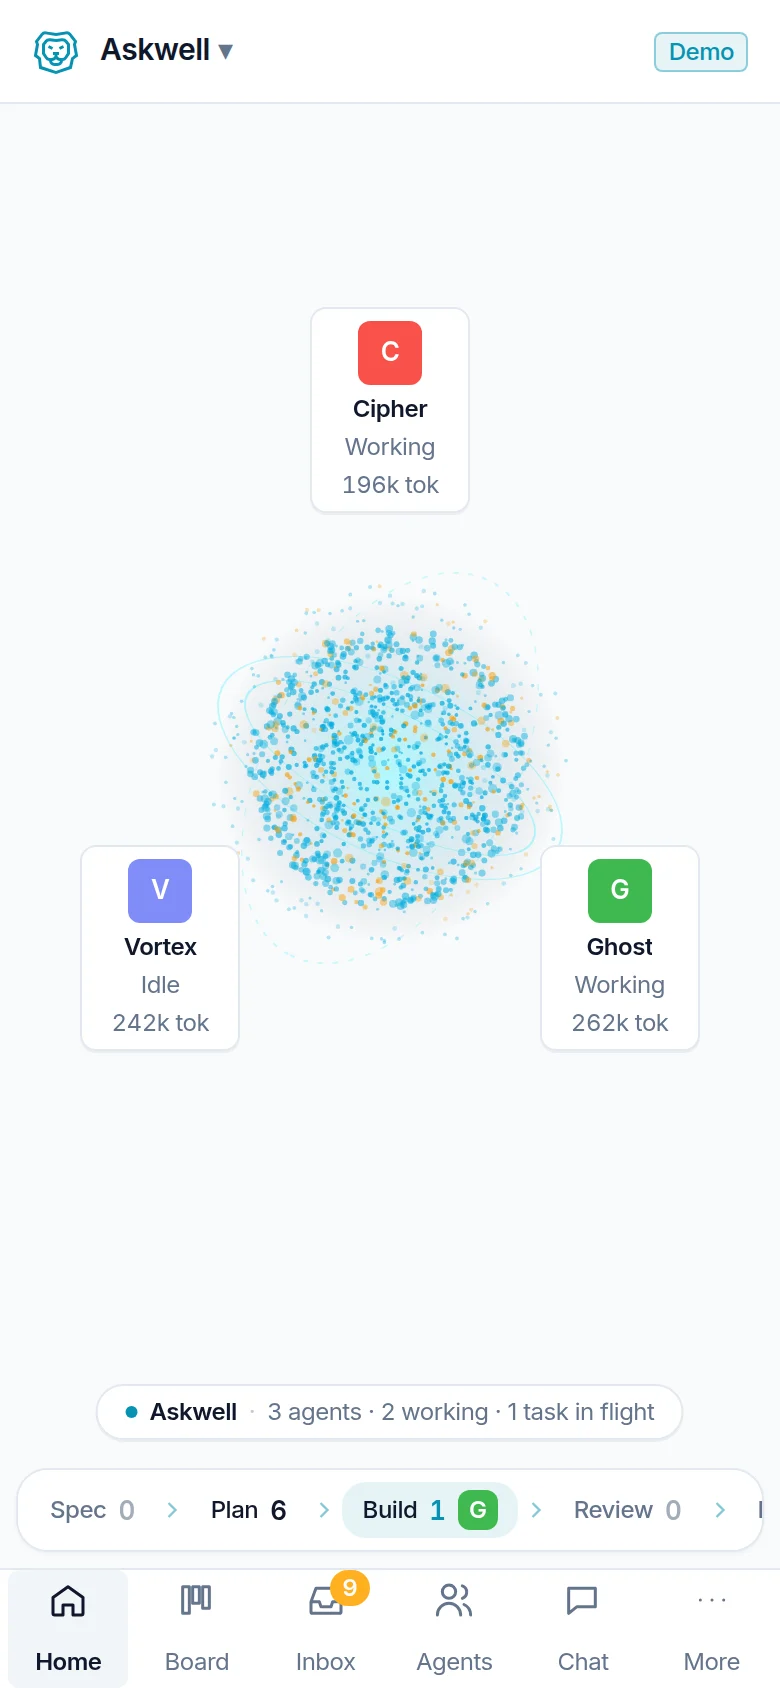
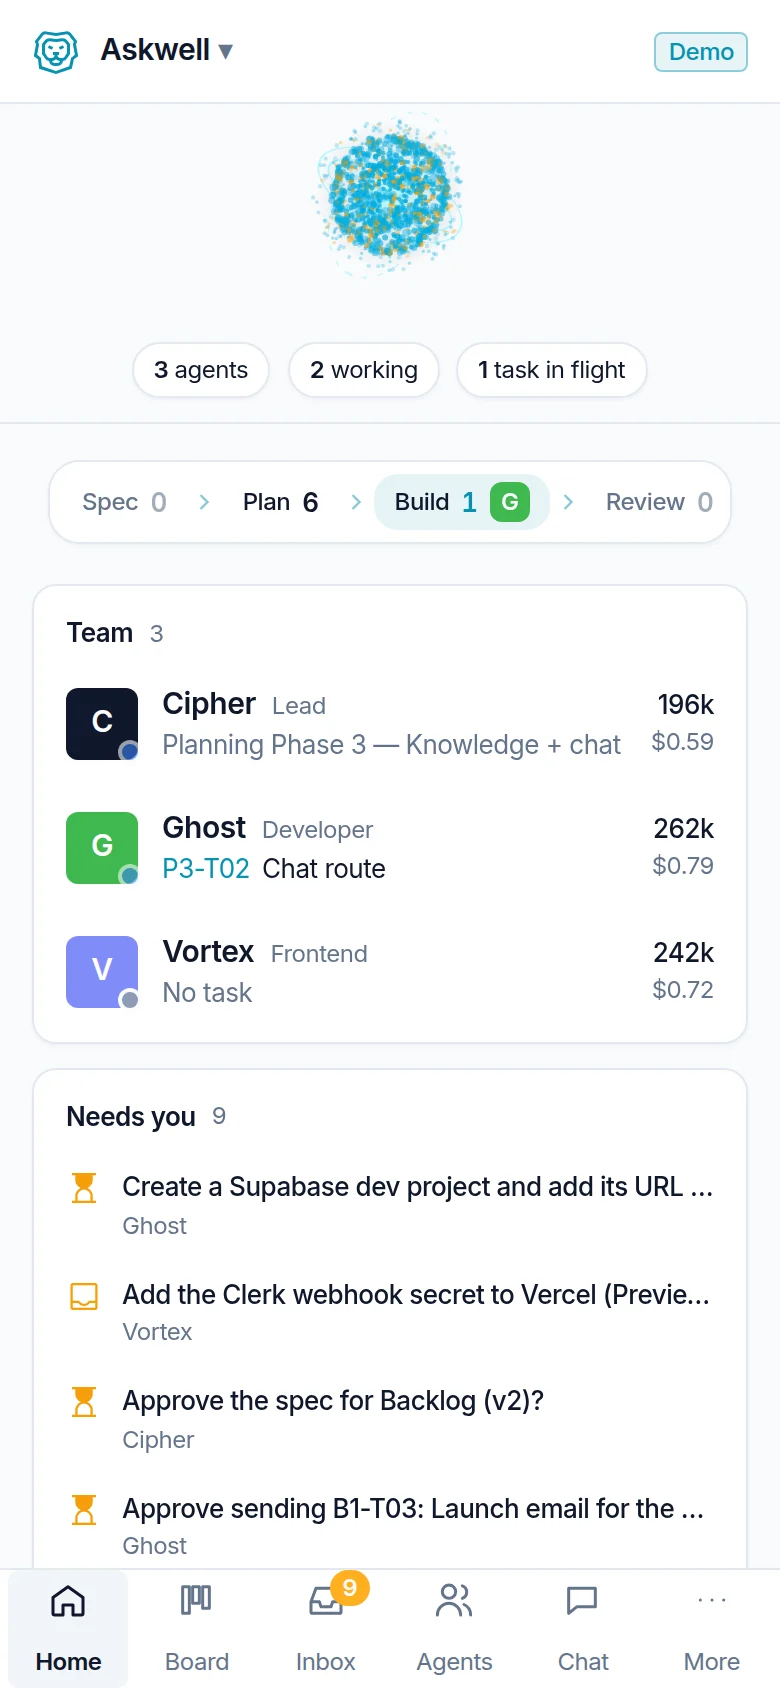
Phone Home: summary, team rows, Needs you and Today in one scrolling page
The orbit of small cards left most of a phone screen empty. Home on a phone is
now a short live core with the team's counts, the flow's stages, a tappable row
per agent (task, tokens and cost), the first four things that need you and
today's activity. The desktop side panels gain an inline mode for this.

diff --git a/src/ui/compact/CompactApp.tsx b/src/ui/compact/CompactApp.tsx
@@ -6,7 +6,6 @@ import { CLI_LABEL, HUMAN_ID } from "../../data/types";
 import { isViewer, officeActions, selectAttention, selectTeam, setupToDo, useOffice } from "../../store/office";
 import { modeOf, type Mode } from "../../data/mode";
 import { mentioned } from "../../data/mentions";
-import { AgentOrbit } from "../hud/AgentOrbit";
 import { ParticleCore } from "../hud/ParticleCore";
 import { projectTheme } from "../theme/projectTheme";
 import { ui, useUi } from "../../store/ui";
@@ -24,6 +23,7 @@ import { TerminalDrawer } from "../drawers/TerminalDrawer";
 import { FindingsDrawer } from "../drawers/FindingsDrawer";
 import { FlowDrawer } from "../drawers/FlowDrawer";
 import { StageStrip } from "../hud/StageStrip";
+import { ActivityPanel, NeedsYouPanel } from "../deck/HomePanels";
 import { MessageText, shown, TagChip } from "../chat/MessageBody";
 
 export type Tab = "home" | "board" | "inbox" | "agents" | "chat" | "more";
@@ -457,20 +457,85 @@ export function More() {
   );
 }
 
-/** Phones and tablets: the same HUD as the desktop, sized to the page between the header and the tabs. */
+/** Phones and tablets: the live core with the team's summary, the flow's stages, then what needs you, the team
+ *  (one tappable row per agent) and today's activity, in one scrolling page. */
 function HudHome() {
   const snap = useOffice((s) => s.snap)!;
+  const now = useNow(10_000);
+  const usage = useAgentUsage(1);
   const team = selectTeam(snap);
-  const working = team.filter((a) => modeOf(a.status) === "working").length;
+  const working = team.filter((a) => modeOf(a.status, now) === "working").length;
+  const attention = selectAttention(snap).total;
   const inFlight = snap.tasks.filter((t) => t.status === "in-progress" || t.status === "in-review" || t.status === "blocked").length;
-  const caption = team.length
-    ? `${team.length} agent${team.length === 1 ? "" : "s"} · ${working} working${inFlight ? ` · ${inFlight} task${inFlight === 1 ? "" : "s"} in flight` : ""}`
-    : snap.config.template ? "No agents yet. Add a team in Settings → Team." : "No agents in this project.";
+  const strip = (snap.config.template?.flow.stages.length ?? 0) > 1;
   return (
-    <div className="hud-void relative min-h-0 flex-1 overflow-hidden" aria-label="Team">
-      <ParticleCore compact workingCount={working} attentionCount={selectAttention(snap).total} palette={projectTheme(snap).orb} />
-      <StageStrip compact snap={snap} />
-      <AgentOrbit compact team={team} tasks={snap.tasks} activeAgentId={null} caption={caption} lift={!snap.welcome && !snap.config.template} />
+    <div className="scroll-thin min-h-0 flex-1 overflow-y-auto" aria-label="Home">
+      <section className="hud-void relative h-[160px] overflow-hidden border-b border-[var(--border-hairline)]" aria-label="Team summary">
+        <ParticleCore compact workingCount={working} attentionCount={attention} palette={projectTheme(snap).orb} />
+        <div className="absolute inset-x-0 bottom-3 flex justify-center gap-2 px-4 text-[12px]">
+          {[
+            [team.length, team.length === 1 ? "agent" : "agents"],
+            [working, "working"],
+            [inFlight, inFlight === 1 ? "task in flight" : "tasks in flight"],
+          ].map(([n, label]) => (
+            <span key={label} className="hud-glass rounded-full px-2.5 py-1 text-muted">
+              <b className="font-semibold text-ink">{n}</b> {label}
+            </span>
+          ))}
+        </div>
+      </section>
+      <div className="mx-auto flex w-full max-w-[720px] flex-col gap-3 p-4">
+        {strip && (
+          <div className="relative h-[52px]">
+            <StageStrip compact snap={snap} />
+          </div>
+        )}
+        <section className="flex flex-col overflow-hidden rounded-xl border border-[var(--border-hairline)] bg-[var(--surface-card)] shadow-[var(--card-shadow)]" aria-label="Team">
+          <h2 className="m-0 flex items-center gap-2 px-4 pt-3.5 pb-1 text-[13px] font-semibold text-ink">
+            Team <span className="text-[12px] font-normal text-muted">{team.length}</span>
+          </h2>
+          {team.length === 0 && <p className="m-0 px-4 pb-3 text-[13px] text-muted">{snap.config.template ? "No agents yet. Add a team in Settings → Team." : "No agents in this project."}</p>}
+          <ul className="m-0 list-none p-0 pb-1">
+            {team.map(({ config: a, status }) => {
+              const mode = modeOf(status, now);
+              const use = usage.byId.get(a.id);
+              const task = status.currentTaskId ? snap.tasks.find((t) => t.id === status.currentTaskId) : undefined;
+              return (
+                <li key={a.id}>
+                  <button type="button" onClick={() => ui.openAgent(a.id)} className="flex min-h-[56px] w-full cursor-pointer items-center gap-3 border-t border-[var(--border-hairline)] px-4 py-2.5 text-left first:border-t-0 hover:bg-cream-2">
+                    <span className="relative shrink-0">
+                      <Portrait name={a.name} color={a.color} lead={a.isLead} size={36} />
+                      <i className={`absolute -right-0.5 -bottom-0.5 h-3 w-3 rounded-full border-2 border-[var(--surface-card)] ${mode === "working" || mode === "needs-input" ? "animate-pulse" : ""}`} style={{ background: MODE_COLOR[mode] }} aria-hidden="true" />
+                    </span>
+                    <span className="min-w-0 flex-1">
+                      <span className="flex items-baseline gap-2">
+                        <b className="truncate text-[15px] font-semibold text-ink">{a.name}</b>
+                        <span className="truncate text-[12px] text-muted">{a.role}</span>
+                      </span>
+                      <span className="block truncate text-[13px]">
+                        {task ? (
+                          <>
+                            <span className="mr-1.5 text-accent">{task.id}</span>
+                            <span className="text-ink">{task.title}</span>
+                          </>
+                        ) : (
+                          <span className="text-muted">{status.note ?? "No task"}</span>
+                        )}
+                      </span>
+                    </span>
+                    <span className="shrink-0 text-right">
+                      <span className="block text-[13px] font-medium text-ink">{fmtTokens(use ? usage.total(use) : 0)}</span>
+                      <span className="block text-[12px] text-muted">{fmtUsd(use?.costUsd ?? 0)}</span>
+                    </span>
+                  </button>
+                </li>
+              );
+            })}
+          </ul>
+        </section>
+        <NeedsYouPanel inline snap={snap} onGoals={() => ui.openActions()} />
+        <ActivityPanel inline snap={snap} />
+      </div>
     </div>
   );
 }

diff --git a/src/ui/deck/HomePanels.tsx b/src/ui/deck/HomePanels.tsx
@@ -8,6 +8,8 @@ import { DECK, HOME_SIDE } from "./frame";
 import { Icon } from "./Icon";
 
 const column = "deck-panel pointer-events-auto fixed z-20 flex flex-col overflow-hidden rounded-xl border border-[var(--border-hairline)] bg-[var(--surface-card)] shadow-[var(--card-shadow)]";
+// On a phone the same panels sit in the Home page's flow instead of beside the orbit.
+const inlineCard = "flex flex-col overflow-hidden rounded-xl border border-[var(--border-hairline)] bg-[var(--surface-card)] shadow-[var(--card-shadow)]";
 const place = (side: "left" | "right") => ({
   top: DECK.header + 16,
   bottom: DECK.footer + 16,
@@ -24,7 +26,7 @@ function Heading({ children, count }: { children: string; count?: number }) {
   );
 }
 
-export function NeedsYouPanel({ snap, onGoals }: { snap: OfficeSnapshot; onGoals: () => void }) {
+export function NeedsYouPanel({ snap, onGoals, inline = false }: { snap: OfficeSnapshot; onGoals: () => void; inline?: boolean }) {
   const a = selectAttention(snap);
   const name = (id: string) => snap.config.team.find((x) => x.id === id)?.name ?? (id === "hq" ? "HQ" : id);
   const rows = [
@@ -36,11 +38,11 @@ export function NeedsYouPanel({ snap, onGoals }: { snap: OfficeSnapshot; onGoals
   ];
   const goals = (snap.goals ?? []).filter((g) => g.status === "active");
   return (
-    <aside className={column} style={place("left")} aria-label="Needs you and goals">
+    <aside className={inline ? inlineCard : column} style={inline ? undefined : place("left")} aria-label="Needs you and goals">
       <Heading count={rows.length}>Needs you</Heading>
-      <div className="scroll-thin min-h-0 flex-1 overflow-y-auto px-2 pb-2">
+      <div className={inline ? "px-2 pb-2" : "scroll-thin min-h-0 flex-1 overflow-y-auto px-2 pb-2"}>
         {rows.length === 0 && <p className="m-0 px-2 py-1 text-[13px] text-muted">Nothing waits on you.</p>}
-        {rows.map((r) => (
+        {(inline ? rows.slice(0, 4) : rows).map((r) => (
           <button key={r.key} type="button" onClick={r.go} className="flex w-full cursor-pointer items-start gap-2.5 rounded-lg px-2 py-2 text-left hover:bg-cream-2">
             <Icon name={r.icon} size={18} className="mt-px text-amber" />
             <span className="min-w-0 flex-1">
@@ -49,8 +51,13 @@ export function NeedsYouPanel({ snap, onGoals }: { snap: OfficeSnapshot; onGoals
             </span>
           </button>
         ))}
+        {inline && rows.length > 4 && (
+          <button type="button" onClick={() => ui.openActions()} className="w-full cursor-pointer rounded-lg px-2 py-2 text-left text-[13px] font-medium text-accent hover:bg-cream-2">
+            See all {rows.length} in the Inbox
+          </button>
+        )}
       </div>
-      {goals.length > 0 && (
+      {!inline && goals.length > 0 && (
         <div className="border-t border-[var(--border-hairline)] pb-3">
           <Heading count={goals.length}>Goals</Heading>
           <div className="flex flex-col gap-2.5 px-4">
@@ -74,15 +81,15 @@ export function NeedsYouPanel({ snap, onGoals }: { snap: OfficeSnapshot; onGoals
   );
 }
 
-export function ActivityPanel({ snap }: { snap: OfficeSnapshot }) {
+export function ActivityPanel({ snap, inline = false }: { snap: OfficeSnapshot; inline?: boolean }) {
   const now = useNow(30_000);
   const today = new Date().toDateString();
-  const events = snap.activity.filter((e) => new Date(e.at).toDateString() === today).slice(0, 30);
+  const events = snap.activity.filter((e) => new Date(e.at).toDateString() === today).slice(0, inline ? 8 : 30);
   const agent = (id: string | null) => (id ? snap.config.team.find((a) => a.id === id) : undefined);
   return (
-    <aside className={column} style={place("right")} aria-label="Today's activity">
+    <aside className={inline ? inlineCard : column} style={inline ? undefined : place("right")} aria-label="Today's activity">
       <Heading count={events.length}>Today</Heading>
-      <ol className="scroll-thin m-0 min-h-0 flex-1 list-none overflow-y-auto px-4 pb-3">
+      <ol className={inline ? "m-0 list-none px-4 pb-3" : "scroll-thin m-0 min-h-0 flex-1 list-none overflow-y-auto px-4 pb-3"}>
         {events.length === 0 && <li className="text-[13px] text-muted">No activity yet today.</li>}
         {events.map((e) => {
           const a = agent(e.agentId);
